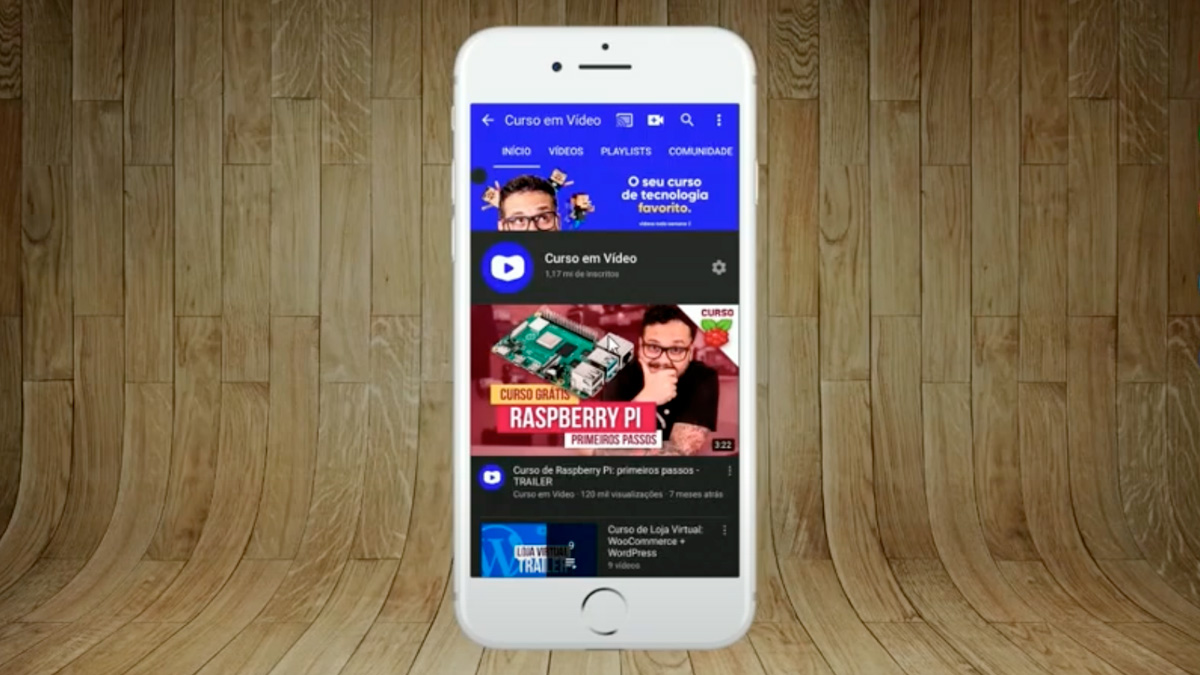
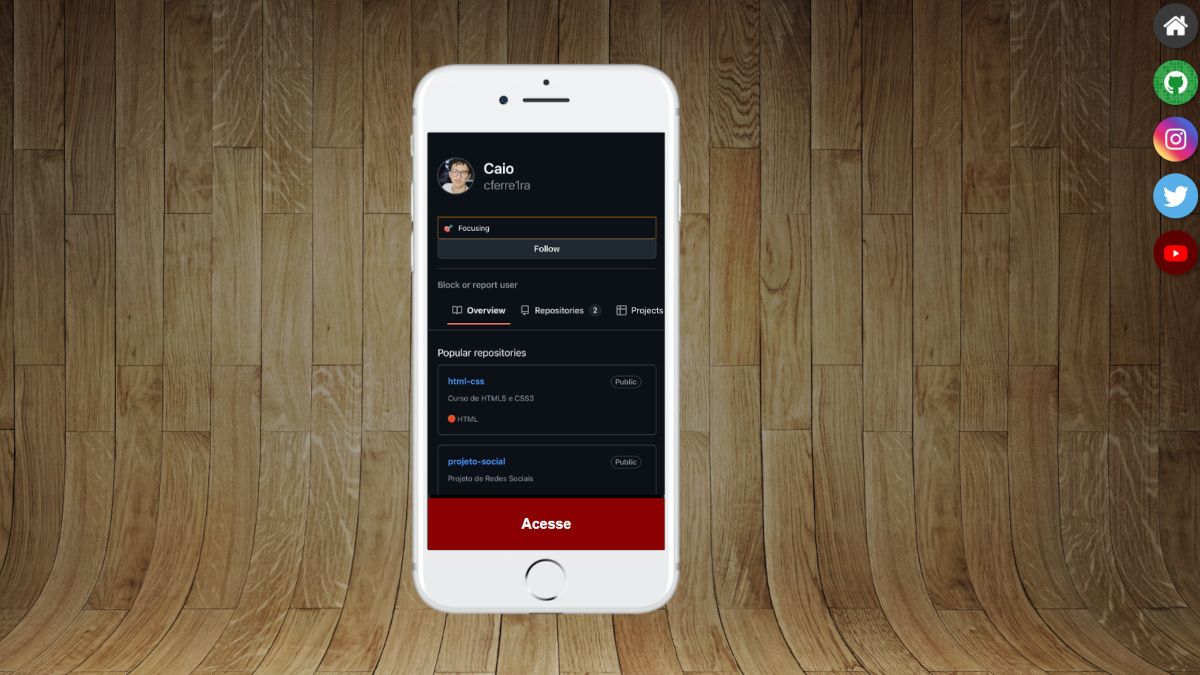
atualização

diff --git a/index.html b/index.html
@@ -32,7 +32,79 @@
       </div>
     </section>
     <section id="detalhes">
+      <article id="skills">
+        <h2> <i class="fa-solid fa-brain"></i>Minhas Skills</h2>
 
+        
+      <div id="skill-container">
+        <div class="item">
+          <div class="info">
+            <span class="nome">
+              <i class="fa-solid fa-code"></i>
+              HTML5
+            </span>
+            <span class="porcent">97%</span>
+          </div>
+          <div class="barra">
+            <div class="progresso" style="width: 97%"></div>
+          </div>
+        </div>
+
+        <div class="item">
+          <div class="info">
+            <span class="nome">
+              <i class="fa-solid fa-code"></i>
+              CSS3
+            </span>
+            <span class="porcent">90%</span>
+          </div>
+          <div class="barra">
+            <div class="progresso" style="width: 90%"></div>
+          </div>
+        </div>
+
+        <div class="item">
+          <div class="info">
+            <span class="nome">
+              <i class="fa-solid fa-code"></i>
+              JavaScript
+            </span>
+            <span class="porcent">7%</span>
+          </div>
+          <div class="barra">
+            <div class="progresso" style="width: 7%"></div>
+          </div>
+        </div>
+
+        <div class="item">
+          <div class="info">
+            <span class="nome">
+              <i class="fa-solid fa-person-rays"></i>
+              flexibilidade
+            </span>
+            <span class="porcent">100%</span>
+          </div>
+          <div class="barra">
+            <div class="progresso" style="width: 100%"></div>
+          </div>
+        </div>
+      </div>
+
+
+      </article> <!-- Fim do article#skills --> 
+
+      <article id="formacao">
+        <h2><i class="fa-solid fa-graduation-cap"></i>Formação</h2>
+
+
+
+      </article> <!-- Fim do article#formacao -->
+
+      <article id="projetos">
+        <h2><i class="fa-solid fa-trowel-bricks"></i>Projetos</h2>
+
+
+      </artiicle> <!-- Fim do article#projetos -->
     </section>
   </main>
 

diff --git a/estilos/style.css b/estilos/style.css
@@ -110,3 +110,59 @@ div#social a {
 div#social a:hover {
   color: var(--destaque-inverso);
 }
+
+section#detalhes {
+  grid-column: 2;
+}
+
+article {
+  background-color: var(--fundo-card);
+  padding: 20px;
+  margin-bottom: 20px;
+  border-radius: 8px;
+}
+
+article h2 {
+  color: var(--destaque);
+  margin-bottom: 10px;
+}
+
+#skill-container {
+  display: grid;
+  grid-template-columns: 1fr;
+  gap: 30px;
+}
+
+#skill-container .info {
+  display: flex;
+  justify-content: space-between;
+  align-items: center;
+}
+
+#skill-container .nome {
+  font-weight: bold;
+  color: var(--texto);
+}
+#skill-container .porcent {
+  font-weight: bold;
+  color: var(--destaque);
+}
+
+#skill-container .barra {
+  width: 100%;
+  height: 8px;
+  background-color: var(--fundo-principal);
+  border-radius: 4px;
+}
+
+#skill-container .progresso {
+  height: 100%;
+  background-color: var(--destaque-inverso);
+  border-radius: 4px;
+}
+
+@media screen and (min-width: 768px) {
+  #skill-container {
+    grid-template-columns: 1fr 1fr;
+  }
+}
